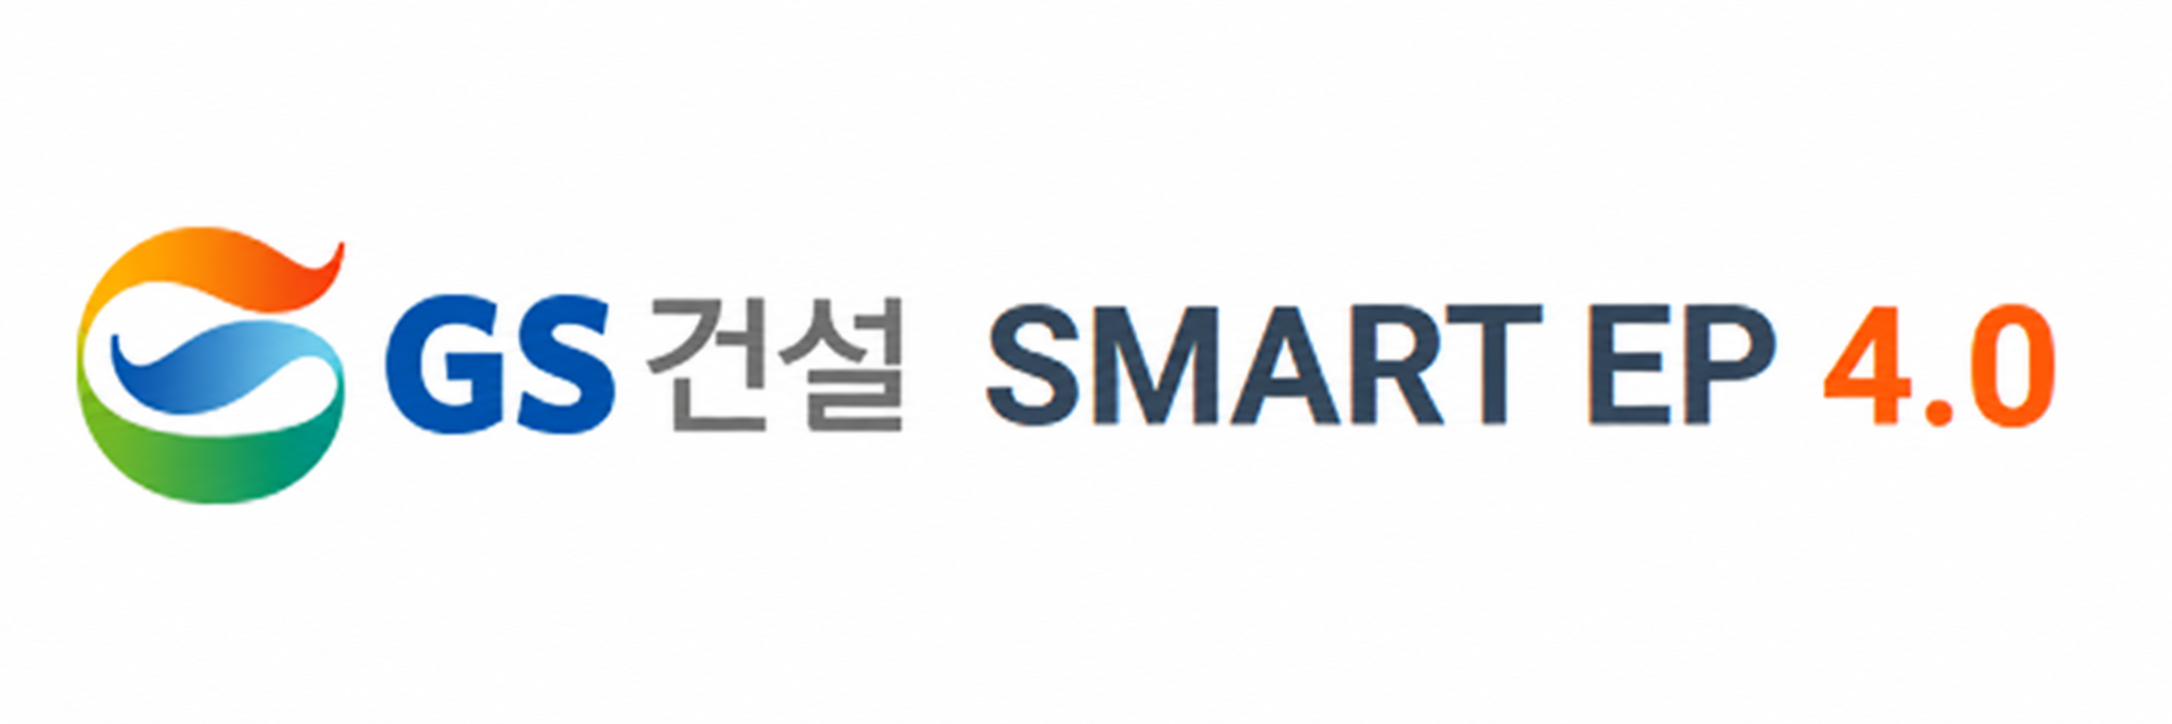
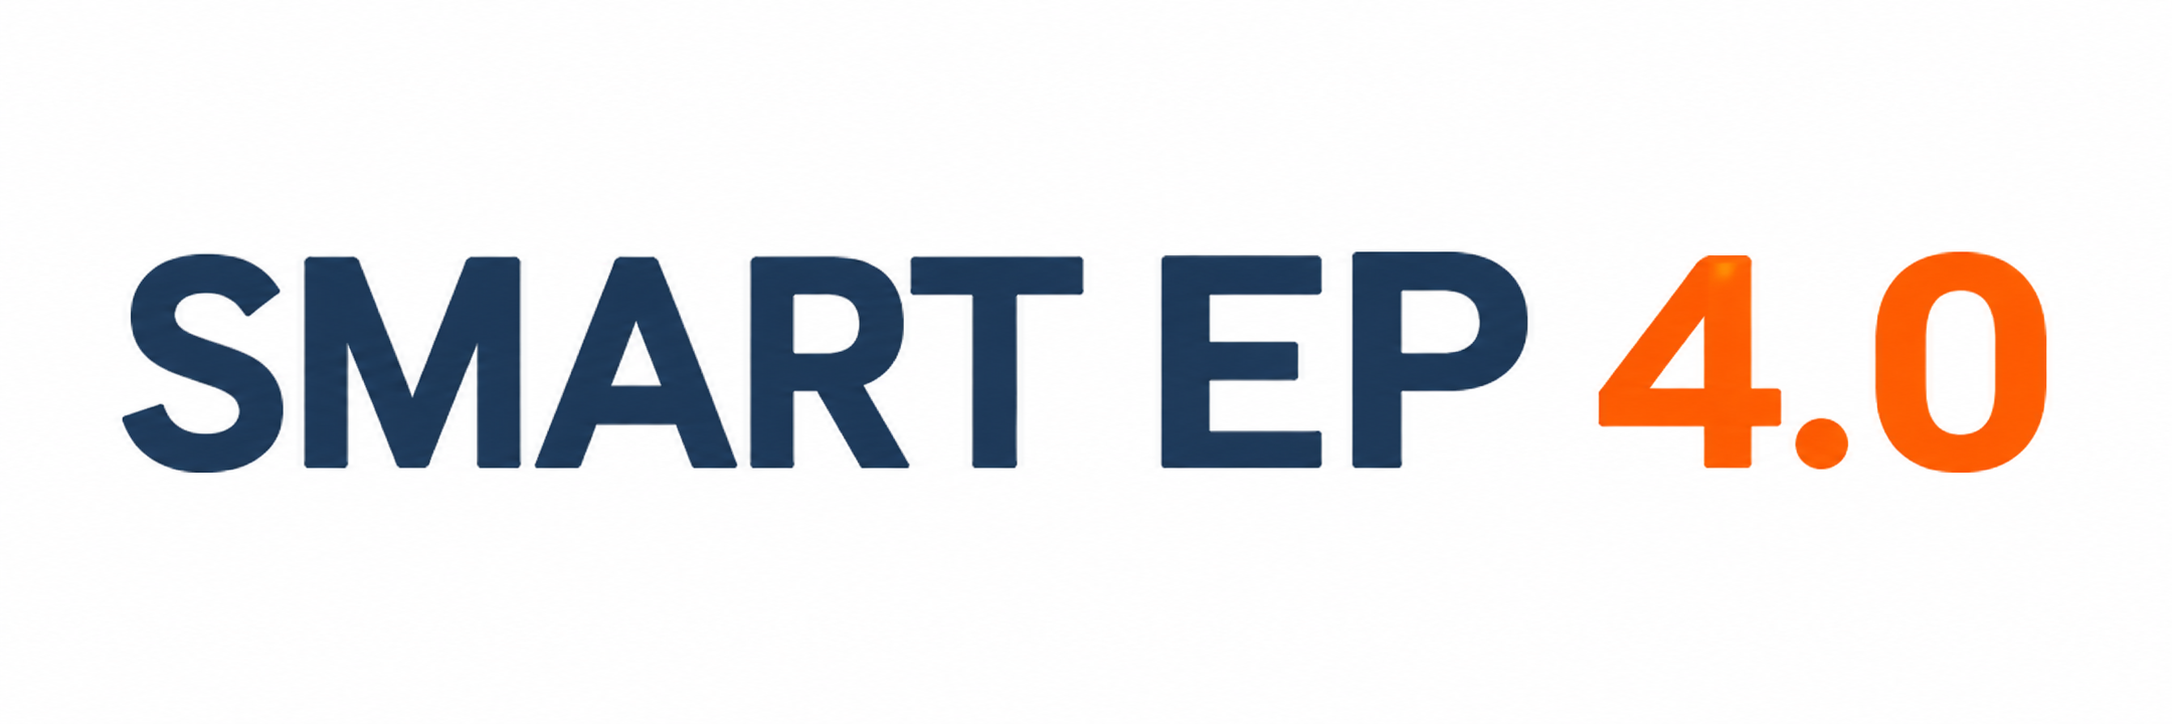
Remove GS branding from SMART ERP shortcut image

Changed region(s): [[0.0308, 0.3039, 0.9563, 0.6989]]

diff --git a/index.html b/index.html
@@ -331,8 +331,8 @@
     <a class="erp-link"
        href="https://sso.gsenc.com/sso/std/ssoLogin_pin.jsp"
        target="_blank" rel="noopener noreferrer"
-       aria-label="GS건설 SMART ERP 4.0 로그인 (새 창)">
-      <img class="erp-logo" src="assets/smart-erp.png" alt="GS건설 SMART ERP 4.0">
+       aria-label="SMART ERP 4.0 로그인 (새 창)">
+      <img class="erp-logo" src="assets/smart-erp.png" alt="SMART ERP 4.0">
     </a>
     </div>
     <span class="header-note">현장 업무 포털</span>
